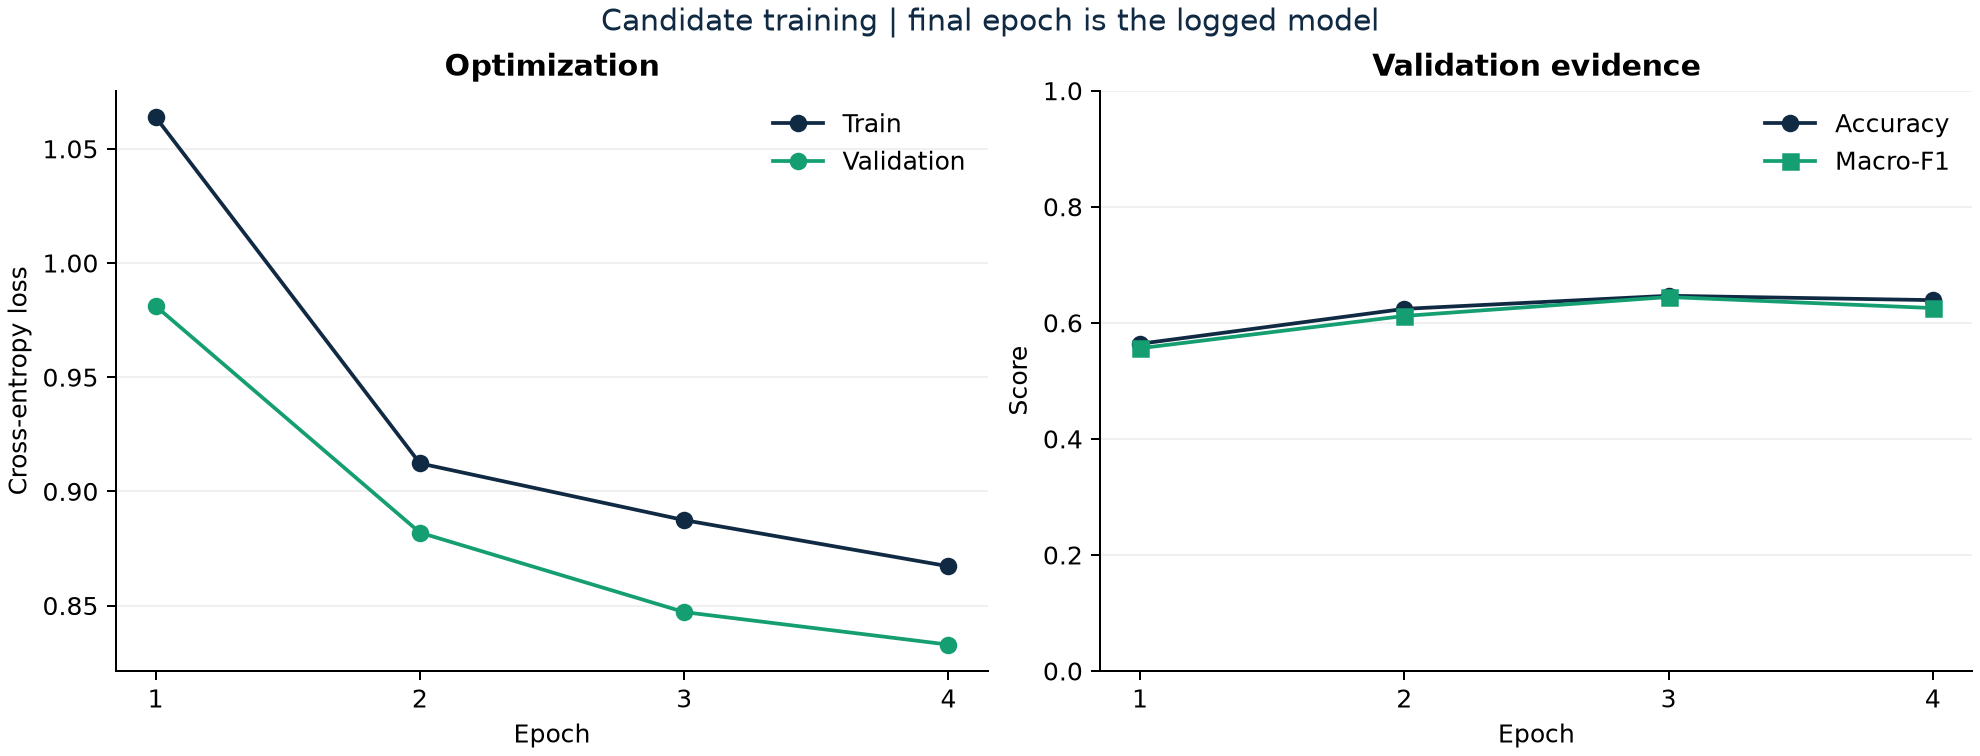
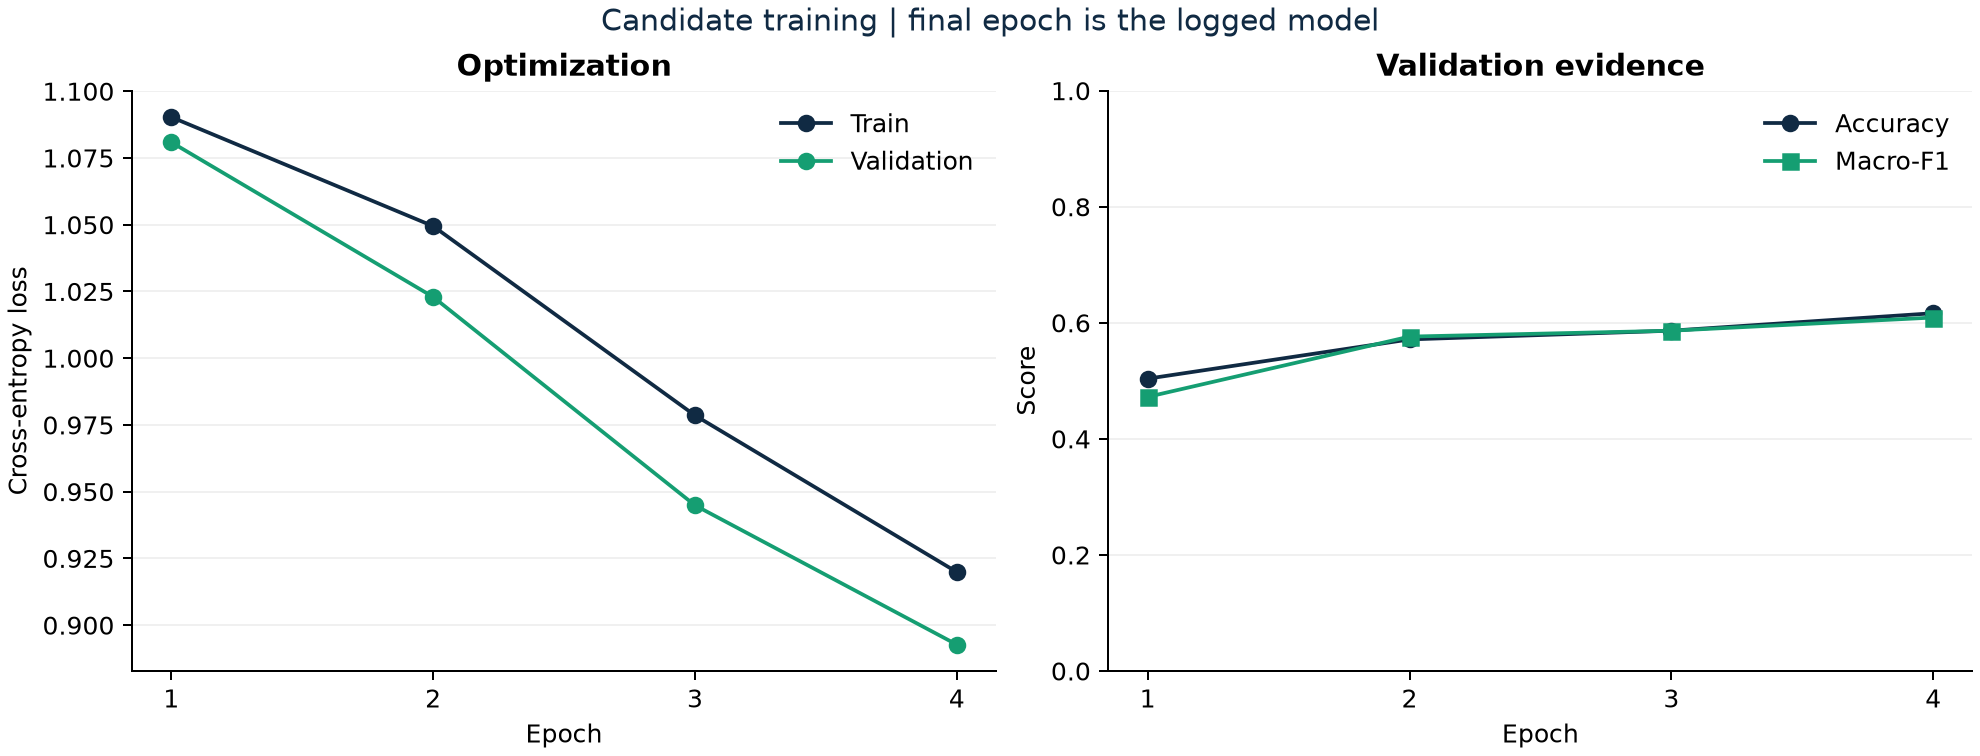
Record Run B and the recomputation checks

diff --git a/LAB_REPORT.md b/LAB_REPORT.md
@@ -99,3 +99,25 @@ Given the type of model we deal with, I assume the main validation metric would 
 If the learning rate is lower the weights will move slower, so finer updates and a slower convergence. So the loss could be higher using the same number of epochs. We trade stability for speed.
 
 - Run ID (A) : cbbf401c41104b438bcadb025064e5d2
+- Run ID (B) : 01642b2a11d54d078fc89a5c871de4a6 
+
+#### Verify the learning rate change
+
+| Check | **VALIDATE** | **PREPARE** | **TRAIN** | **EVALUATE** |
+| --- | --- | --- | --- | --- |
+| Baseline, Run A (first `dvc repro train`) | RERUN | RERUN | RERUN | NOT RUN |
+| Re-run, nothing changed | REUSED | REUSED | REUSED | NOT RUN |
+| Comment added to `src/validate_data.py` | RERUN | REUSED | REUSED | NOT RUN |
+| `train.learning_rate = 0.0003`, Run B | REUSED | REUSED | RERUN | NOT RUN |
+
+- `EVALUATE` is `NOT RUN` everywhere because dvc repro train only reproduces train and its upstream stages. `EVALUATE` is on another branch of the DAG.
+- For the comment put in `src/validate_data.py`, it matches row 3 of the prediction table. `VALIDATE` reran because its code dependencies changed. It rewrote `data_quality.json` with identical bytes, so `PREPARE`'s dependency hash didn't change and DVC skipped it, and `TRAIN` with it. 
+- For the learning-rate: it matches row 1. Only `TRAIN` lists train.learning_rate in its params.
+- Baseline row: That's the only real difference kind of. Everything ran because `dvc.lock` didn't exist yet ("Generating lock file"), so DVC had no recorded state to compare with. 
+
+| Run | lr | Final val_loss | Final val_acc | Final val_macro_f1 |
+| --- | --- | --- | --- | --- |
+| A | 0.001 | 0.8329 | 0.6391 | 0.6254 (peak 0.6445 at epoch 3) |
+| B | 0.0003 | 0.8927 | 0.6165 | 0.6091 |
+
+This matches what we predicted. The lower learning rate gives higher losses and lower scores after 4 epochs. B's curves are still clearly improving at epoch 4, so it's under-trained, not intrinsically worse. A's macro-F1 dips slightly at epoch 4 while its val_loss keeps decreasing.
